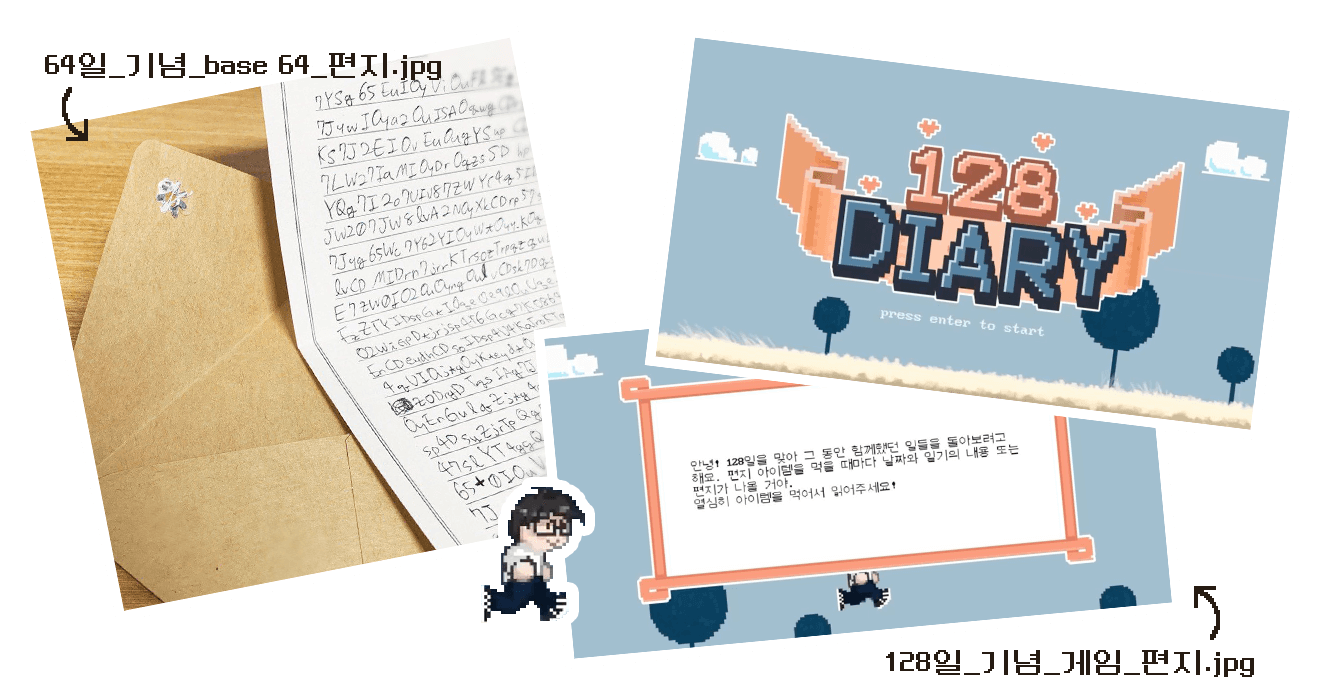
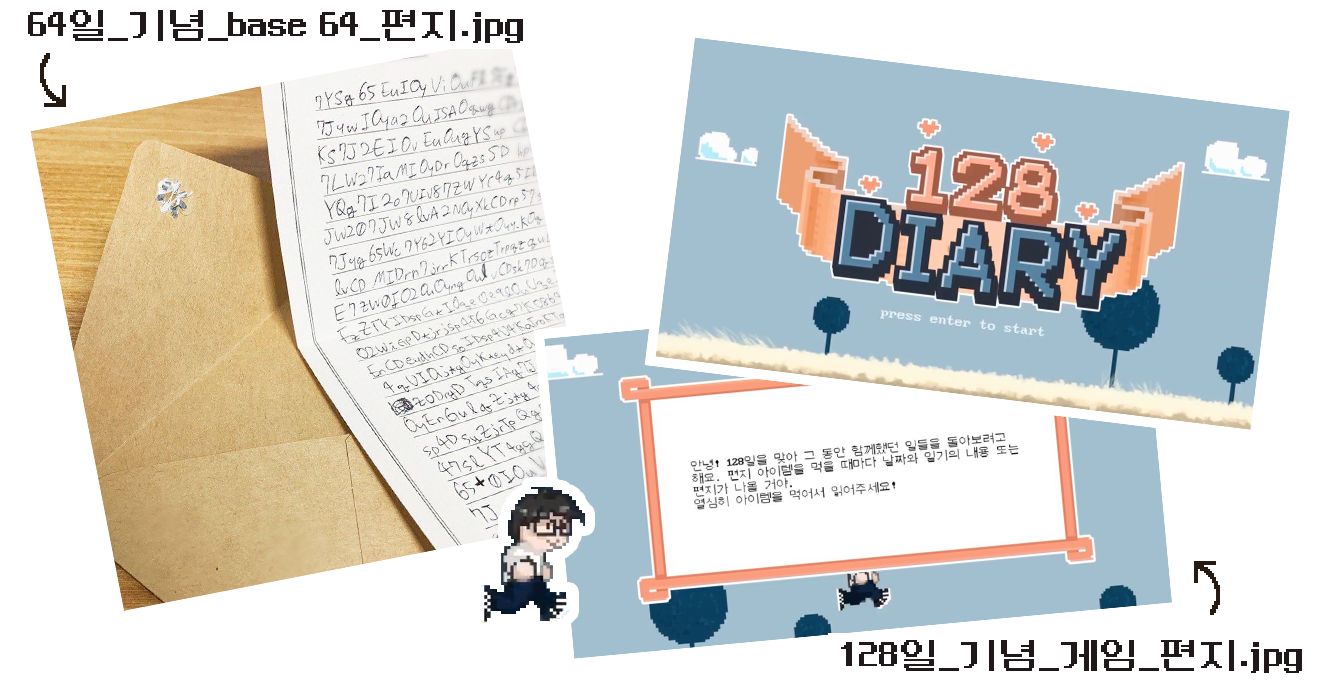
finalize

Changed region(s): [[0.0, 0.0, 0.4038, 0.2162], [0.6212, 0.8029, 0.9939, 1.0]]

diff --git a/src/game/level.ts b/src/game/level.ts
@@ -107,13 +107,24 @@ function LevelSequence() {
             "zIndex": 1
         },
         {
-            "x": offset[1] - 122,
+            "x": offset[0] + 2060,
+            "y": 0,
+            "itemType": "backgroundHelper",
+            "width": 1000,
+            "height": 500,
+            "textureKey": "bg1-outside",
+            "zIndex": -10000,
+            "v": 5
+        },
+        {
+            "x": offset[1] - 60,
             "y": 155,
             "itemType": "backgroundHelper",
             "width": 245,
             "height": 345,
             "textureKey": "pot",
             "zIndex": 1000,
+            "v": 6.7
         },
         {
             "x": offset[1] + 200,
@@ -165,13 +176,14 @@ function LevelSequence() {
             "textureKey": "bg2-tot"
         },
         {
-            "x": offset[3] - 122,
+            "x": offset[3] - 60,
             "y": 155,
             "itemType": "backgroundHelper",
             "width": 245,
             "height": 345,
             "textureKey": "pot",
             "zIndex": 1000,
+            "v": 6.7
         },
         {
             "x": offset[4] - 100,
@@ -232,7 +244,7 @@ function LevelSequence() {
             "itemType": "item",
             "itemKey": "lingo",
             "rewardTextureKey": "picture-lingo",
-            "rewardText": "그러다가 자주 가던 펍에서 서로의 마음을 확인했고,\n함께로서의 1일을 시작하게 되었어요."
+            "rewardText": "그러다 같이 가곤 하던 펍에서 서로의 마음을 확인했고,\n함께로서의 1일을 시작하게 되었어요."
         },
         {
             "x": offset[2] + 500,
@@ -248,7 +260,7 @@ function LevelSequence() {
             "itemType": "item",
             "itemKey": "taiko",
             "rewardTextureKey": "picture-taiko",
-            "rewardText": "리듬게임을 좋아한다는 점도 비슷해서, \n이런저런 컨트롤러를 구매해서 집에서 함께 게임을 하곤 합니다."
+            "rewardText": "리듬게임을 좋아한다는 점도 비슷해서,\n이런저런 컨트롤러를 구매해서 집에서 함께 게임도 하곤 합니다."
         },
         {
             "x": offset[3] + 450,
@@ -272,7 +284,7 @@ function LevelSequence() {
             "itemType": "item",
             "itemKey": "ring",
             "rewardTextureKey": "picture-ring",
-            "rewardText": "그리고 512일이 되던 때, \n앞으로 평생 함께하기로 약속했답니다."
+            "rewardText": "그리고 512일이 되던 즈음, \n앞으로 평생을 함께하기로 약속했습니다."
         },
         {
             "x": offset[4] + 1500,
@@ -283,8 +295,8 @@ function LevelSequence() {
             "rewardText": "각각 고양이 1마리의 집사였던 우리들이 만나, \n이제 고양이 2마리의 집사가 되려고 합니다."
         },
         {
-            "x": offset[4] + 2300,
-            "y": 300.0,
+            "x": offset[4] + 2100,
+            "y": 250.0,
             "itemType": "item",
             "itemKey": "heart",
             "rewardTextureKey": "picture-heart",

diff --git a/src/assets/index.ts b/src/assets/index.ts
@@ -3,6 +3,7 @@ import * as PIXI from 'pixi.js';
 import * as GRAYTILE_IMAGE from './graytile.png';
 import * as BG_INIT_STAGE1 from './bg1-obj-stage2.png';
 import * as BG_STAGE1 from './bg1.png';
+import * as BG_STAGE1_OUTSIDE from './bg1-outside.png';
 import * as BG_STAGE1_WINDOW from './bg1-obj-window.png';
 import * as POT from './bg1-obj-pot.png';
 import * as BG_STAGE2 from './bg2.png';
@@ -78,6 +79,7 @@ export function LoadSprites(loader: PIXI.Loader): Promise<LoaderAndResources> {
         .add('graytile', GRAYTILE_IMAGE)
         .add('bg1-init', BG_INIT_STAGE1)
         .add('bg1', BG_STAGE1)
+        .add('bg1-outside', BG_STAGE1_OUTSIDE)
         .add('bg1-window', BG_STAGE1_WINDOW)
         .add('pot', POT)
         .add('bg2', BG_STAGE2)

diff --git a/src/game/LevelGenerator.ts b/src/game/LevelGenerator.ts
@@ -110,7 +110,7 @@ function spawnObjects(
                     (container: PopupObject) => {
                         const pictureObj = new UISpriteObject(`${container.id}#pics`, 70, 70, 660, 340, GameInstance().resources[rewardTextureKey].texture);
                         container.add(pictureObj);
-                        const descriptionObj = new TextObject(100, 450, 600, `${container.id}#description`, rewardText, 21);
+                        const descriptionObj = new TextObject(100, 440, 600, `${container.id}#description`, rewardText, 22);
                         container.add(descriptionObj);
                     },
                     () => {

diff --git a/src/game/scenes/Main.ts b/src/game/scenes/Main.ts
@@ -40,7 +40,7 @@ even for commercial purposes, all without asking permission:
 http://creativecommons.org/publicdomain/zero/1.0/
 Get more resources at ansimuz.com, Spread the word!
                 `,
-                15
+                22
             )
             container.add(licenseText);
         },

diff --git a/src/gameobject/TextObject.ts b/src/gameobject/TextObject.ts
@@ -12,7 +12,7 @@ export class TextObject extends GameObject {
         super();
         this.style = new PIXI.TextStyle({
             fontFamily: 'neodgm',
-            fill: '#382721',
+            fill: '#1f1a19',
         })
         this.style.wordWrap = true;
         this.width = width;

diff --git a/src/css/styles.css b/src/css/styles.css
@@ -1,6 +1,7 @@
 html {
   background-image: url("../assets/ui-bg-pattern.png");
   background-repeat: repeat;
+  background-color: #29252a;
   overflow-x: hidden;
   overflow-y: hidden;
   touch-action: none;
